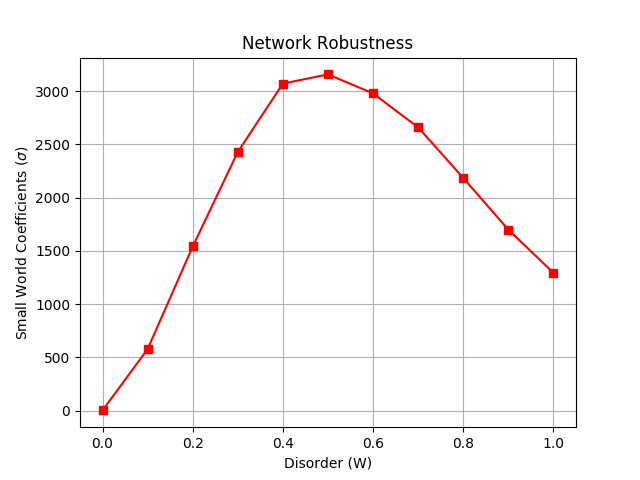
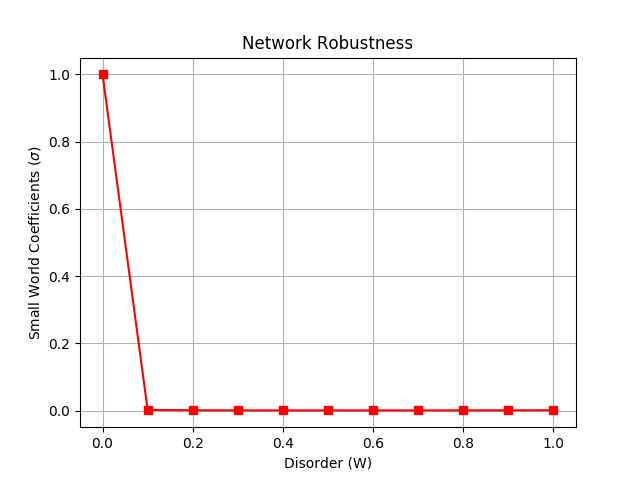
Updated smallworld

diff --git a/main.py b/main.py
@@ -110,7 +110,7 @@ def small_world_sigma (graph, label):
     thread_1.join()
     thread_2.join()
     
-    sigma = results[1]/results[0]
+    sigma = results[0]/results[1]
 
     label = label.replace(".","d")
     file_open = open("Pe-1d-Diffusion-small-world-W-"+label+".txt","w")
